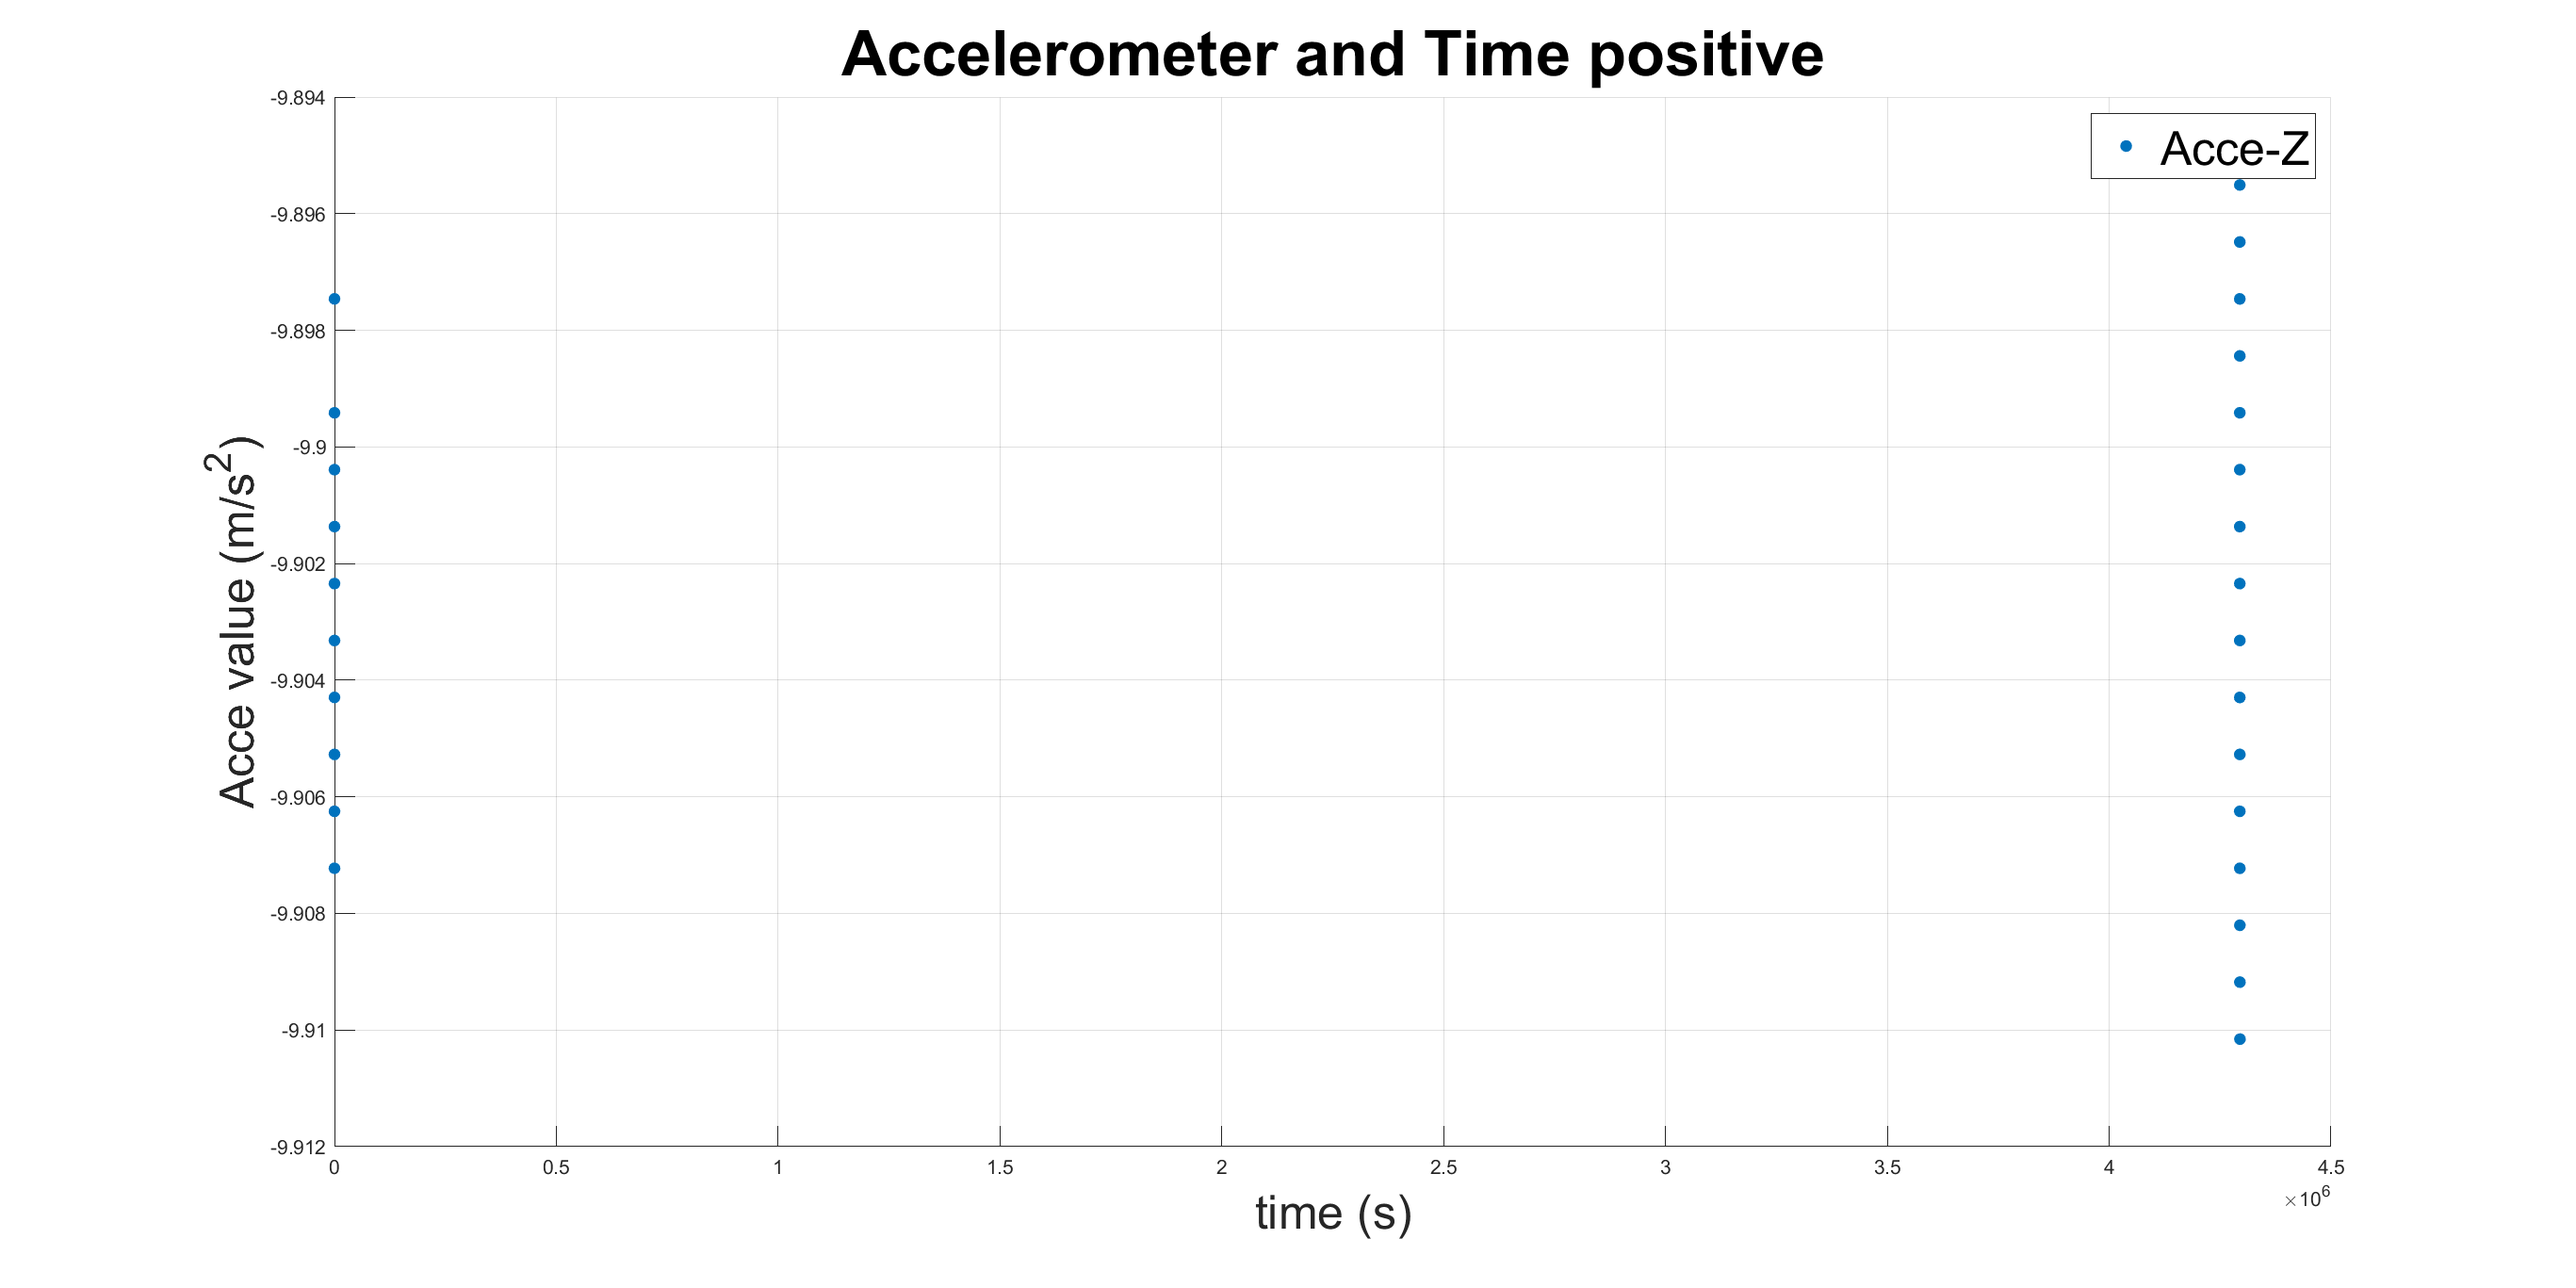
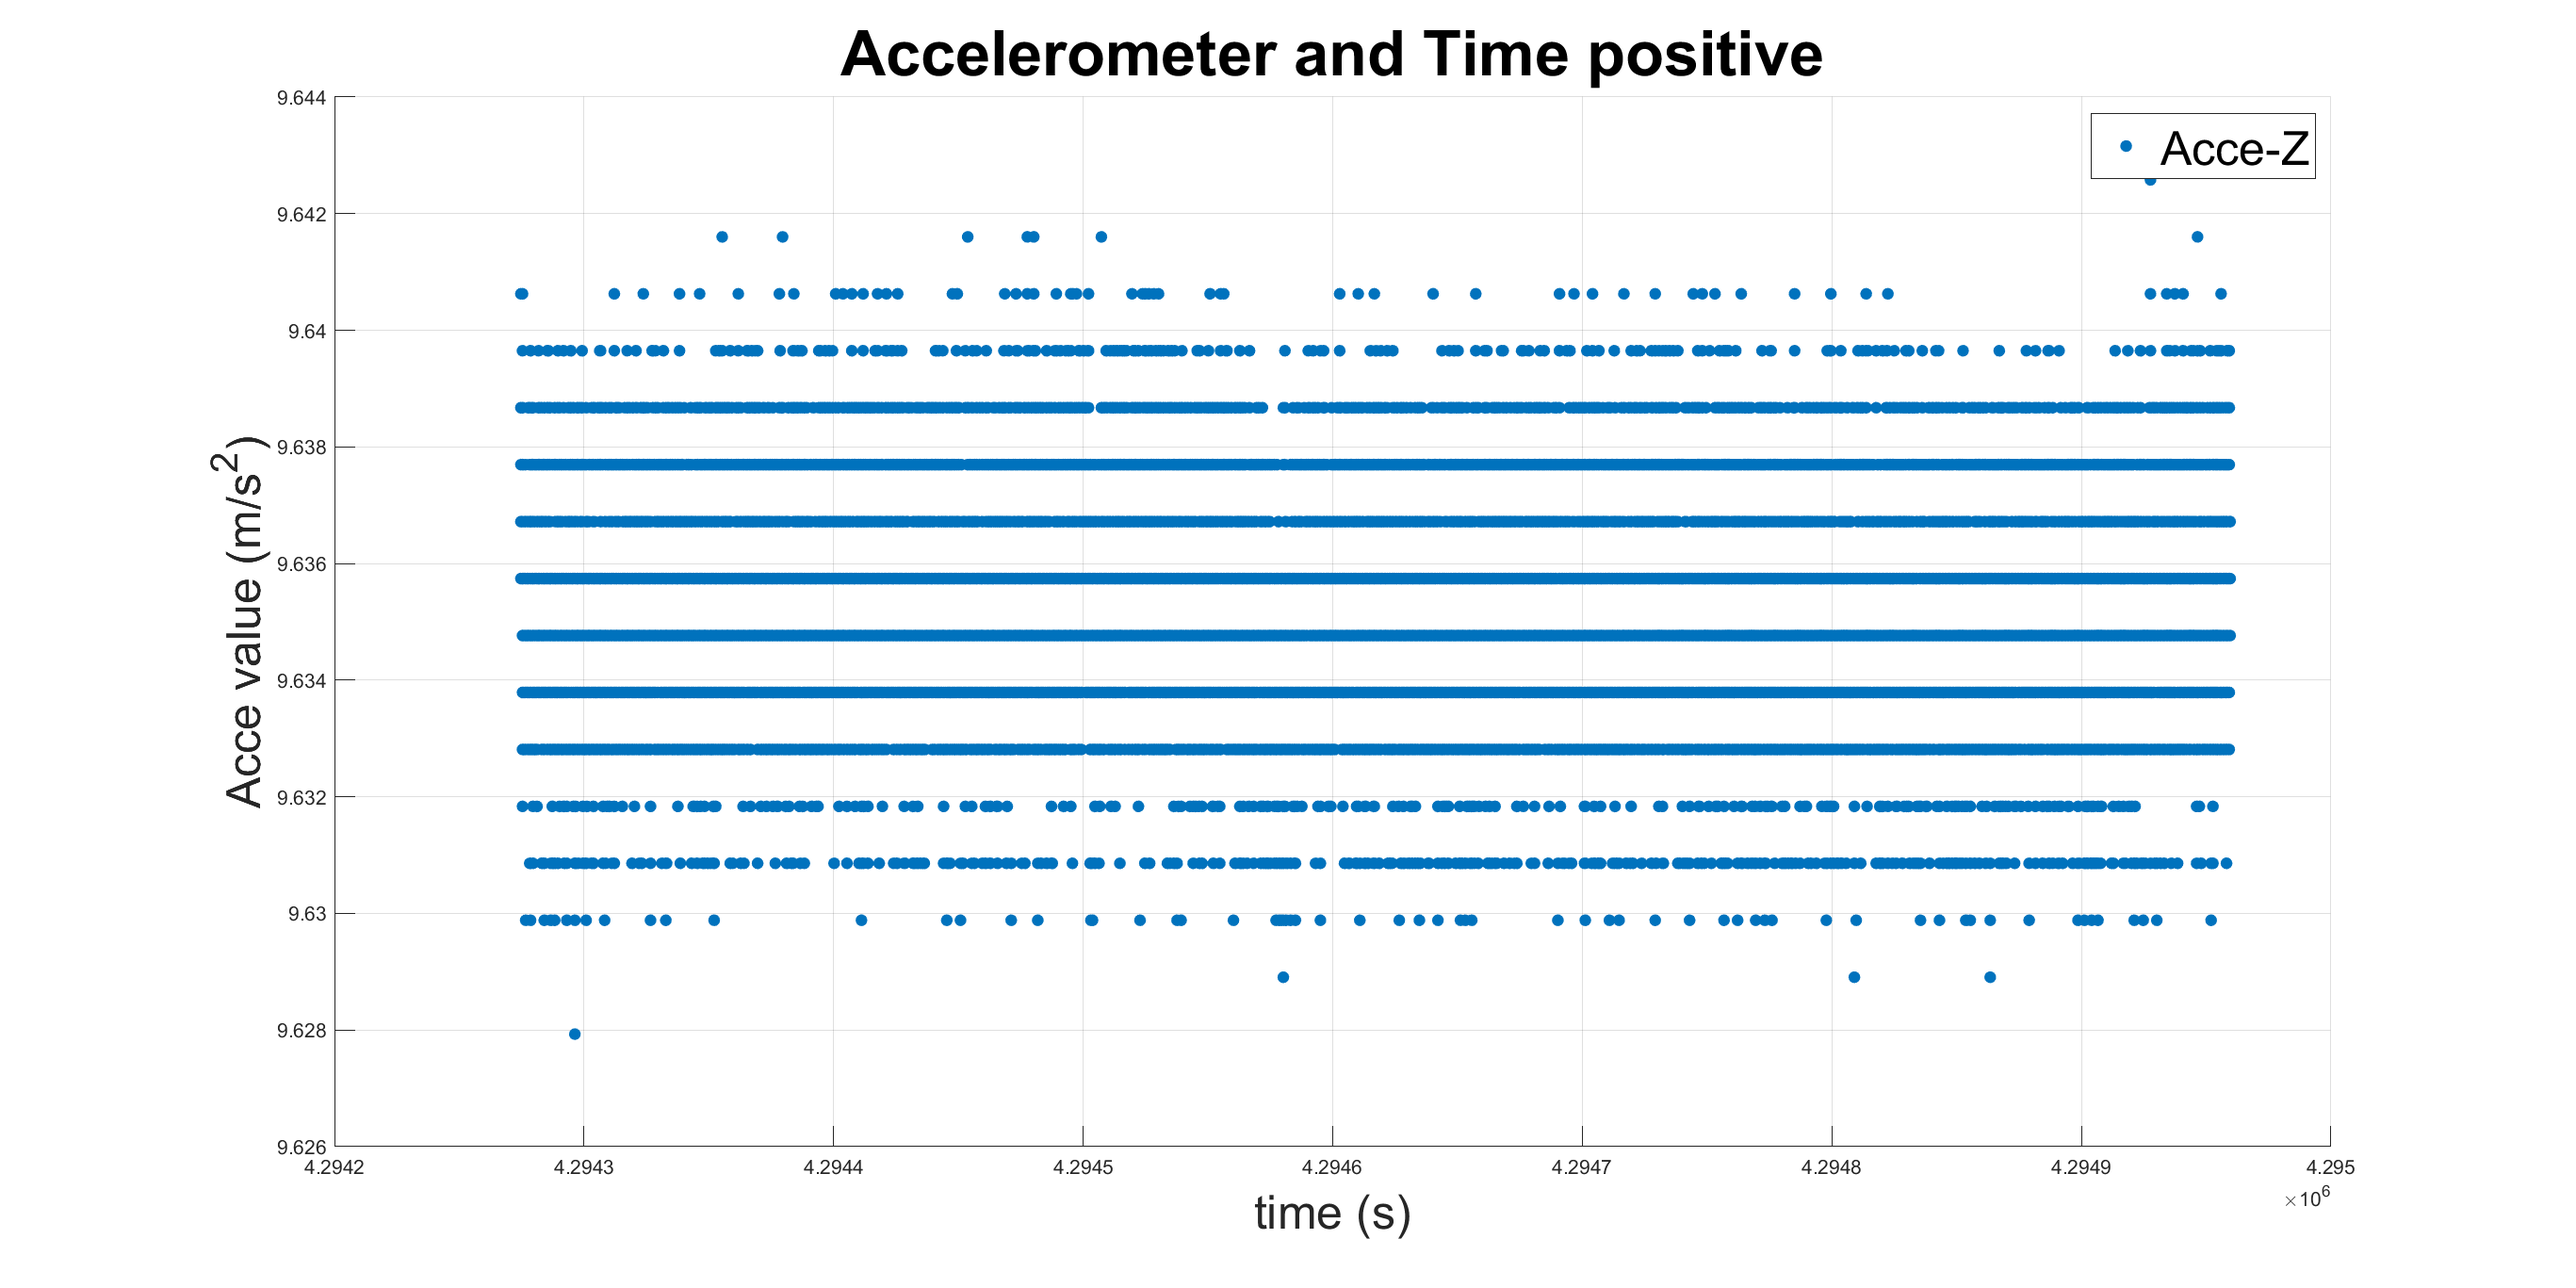
update

diff --git a/Inertial-Survey-and-Navigation-System/Assignment2-git/calibration.m b/Inertial-Survey-and-Navigation-System/Assignment2-git/calibration.m
@@ -4,11 +4,9 @@ clc;
 clear;
 close all;
 
-% Creat output folder
+% Creat output folder and file
 OutputFolder = sprintf('OutputFigure');
-if ~exist([pwd, '\', OutputFolder], 'dir')
-    mkdir(OutputFolder);
-end
+if ~exist(OutputFolder, 'dir'); mkdir(OutputFolder); end
 
 %% ========== Open Example ========== %%
 % openExample('shared_positioning/AllanVarianceExample');
@@ -16,73 +14,85 @@ end
 
 %% ========== Read File ========== %%
 % Select GNSS file
-PathGNSS = 'C:\Users\P66134111\Documents\code-class\Inertial-Survey-and-Navigation-System\Assignment2-git\data-sample\COM3_2024-05-09_14.20.08\';
+PathGNSS = 'C:\Users\P66134111\Documents\code-class\Inertial-Survey-and-Navigation-System\Assignment2-git\data-sample\COM3_2024-05-09_15.12.53-up\';
 FileGNSS = 'gnss_data_pointer.txt';
-[FileGNSS, PathGNSS, ~] = uigetfile('*.txt', 'Please select GNSS file (.txt)');
+% [FileGNSS, PathGNSS, ~] = uigetfile('*.txt', 'Please select GNSS file (.txt)');
 GNSS = readmatrix([PathGNSS, FileGNSS]);
 
-% Select Z1 file
-PathZ1 = 'C:\Users\P66134111\Documents\code-class\Inertial-Survey-and-Navigation-System\Assignment2-git\data-sample\';
-FileZ1 = 'imu_pointer_z1.txt';
-[FileZ1, PathZ1, ~] = uigetfile('*.txt', 'Please select Z1 file (.txt)');
-Z1 = readmatrix([PathZ1, FileZ1]);
+% Select upside file
+PathZUp = 'C:\Users\P66134111\Documents\code-class\Inertial-Survey-and-Navigation-System\Assignment2-git\data-sample\COM3_2024-05-09_15.12.53-up\';
+FileZUp = 'imu_pointer.txt';
+% [FileZUp, PathZUp, ~] = uigetfile('*.txt', 'Please select upside file (.txt)');
+ZUp = readmatrix([PathZUp, FileZUp]);
 
-% Select Z2 file
-PathZ2 = 'C:\Users\P66134111\Documents\code-class\Inertial-Survey-and-Navigation-System\Assignment2-git\data-sample\';
-FileZ2 = 'imu_pointer_z2.txt';
-[FileZ2, PathZ2, ~] = uigetfile('*.txt', 'Please select Z2 file (.txt)');
-Z2 = readmatrix([PathZ2, FileZ2]);
+% Select downside file
+PathZDown = 'C:\Users\P66134111\Documents\code-class\Inertial-Survey-and-Navigation-System\Assignment2-git\data-sample\COM3_2024-05-09_15.00.31-down\';
+FileZDown = 'imu_pointer.txt';
+% [FileZDown, PathZDown, ~] = uigetfile('*.txt', 'Please select downside file (.txt)');
+ZDown = readmatrix([PathZDown, FileZDown]);
 
 % Select Allan file
 PathAllan = 'C:\Users\P66134111\Documents\NCKU-Data\112-2\Inertial-Survey-and-Navigation-System\assignment\Assignment2-class\Sample\Assignment2\';
 FileAllan = 'imu_pointer_Allan.txt';
-[FileAllan, PathAllan, ~] = uigetfile('*.txt', 'Please select Allan file (.txt)');
+% [FileAllan, PathAllan, ~] = uigetfile('*.txt', 'Please select Allan file (.txt)');
 Allan = readmatrix([PathAllan, FileAllan]);
 
 %% ========== Make Obervation Plot ========== %%
-% Z1 scatter
-helperScatterPlotGyro(Z1(:, [1 2 3 4]), 'negative', [OutputFolder, '\','Z1-Gyro']);
-helperScatterPlotAcce(Z1(:, [1 5 6 7]), 'negative', [OutputFolder, '\','Z1-Acce']);
+% Upside scatter
+helperScatterPlotGyro(ZUp(:, [1 2 3 4]), 'negative', [OutputFolder, '\','Z1-Gyro']);
+helperScatterPlotAcce(ZUp(:, [1 5 6 7]), 'negative', [OutputFolder, '\','Z1-Acce']);
 
-% Z2 scatter
-helperScatterPlotGyro(Z2(:, [1 2 3 4]), 'positive', [OutputFolder, '\','Z2-Gyro']);
-helperScatterPlotAcce(Z2(:, [1 5 6 7]), 'positive', [OutputFolder, '\','Z2-Acce']);
+% Downside scatter
+helperScatterPlotGyro(ZDown(:, [1 2 3 4]), 'positive', [OutputFolder, '\','Z2-Gyro']);
+helperScatterPlotAcce(ZDown(:, [1 5 6 7]), 'positive', [OutputFolder, '\','Z2-Acce']);
 
-% Z1 scatter of Z-Axis
-helperScatterPlotGyro(Z1(:, [1 4]), 'negative', [OutputFolder, '\','Z1-Gyro-z']);
-helperScatterPlotAcce(Z1(:, [1 7]), 'negative', [OutputFolder, '\','Z1-Acce-z']);
+% Upside scatter of Z-Axis
+helperScatterPlotGyro(ZUp(:, [1 4]), 'negative', [OutputFolder, '\','Z1-Gyro-z']);
+helperScatterPlotAcce(ZUp(:, [1 7]), 'negative', [OutputFolder, '\','Z1-Acce-z']);
 
-% Z2 scatter of Z-Axis
-helperScatterPlotGyro(Z2(:, [1 4]), 'positive', [OutputFolder, '\','Z2-Gyro-z']);
-helperScatterPlotAcce(Z2(:, [1 7]), 'positive', [OutputFolder, '\','Z2-Acce-z']);
+% Downside scatter of Z-Axis
+helperScatterPlotGyro(ZDown(:, [1 4]), 'positive', [OutputFolder, '\','Z2-Gyro-z']);
+helperScatterPlotAcce(ZDown(:, [1 7]), 'positive', [OutputFolder, '\','Z2-Acce-z']);
 
 %% ========== Make Allan Plot ========== %%
-% % Accelerometer
-% helperAllanVarPlot(Allan(:, 2), 'Gyro-x', [OutputFolder, '\','AllanVar-Gyro-x']);
-% helperAllanVarPlot(Allan(:, 3), 'Gyro-y', [OutputFolder, '\','AllanVar-Gyro-y']);
-% helperAllanVarPlot(Allan(:, 4), 'Gyro-z', [OutputFolder, '\','AllanVar-Gyro-z']);
-% 
-% % Gyroscope
-% helperAllanVarPlot(Allan(:, 5), 'Acce-x', [OutputFolder, '\','AllanVar-Acce-x']);
-% helperAllanVarPlot(Allan(:, 6), 'Acce-y', [OutputFolder, '\','AllanVar-Acce-y']);
-% helperAllanVarPlot(Allan(:, 7), 'Acce-z', [OutputFolder, '\','AllanVar-Acce-z']);
+% Accelerometer
+helperAllanVarPlot(Allan(:, 2), 'Gyro-x', [OutputFolder, '\','AllanVar-Gyro-x']);
+helperAllanVarPlot(Allan(:, 3), 'Gyro-y', [OutputFolder, '\','AllanVar-Gyro-y']);
+helperAllanVarPlot(Allan(:, 4), 'Gyro-z', [OutputFolder, '\','AllanVar-Gyro-z']);
+
+% Gyroscope
+helperAllanVarPlot(Allan(:, 5), 'Acce-x', [OutputFolder, '\','AllanVar-Acce-x']);
+helperAllanVarPlot(Allan(:, 6), 'Acce-y', [OutputFolder, '\','AllanVar-Acce-y']);
+helperAllanVarPlot(Allan(:, 7), 'Acce-z', [OutputFolder, '\','AllanVar-Acce-z']);
 
 %% ========== Calibration ========== %%
 % Initial value
 lat = mean(GNSS(:, 2)); % deg
-AcceTrueZ = 9.8; % m/s^2
+AcceTrueZ = -9.8; % m/s^2
 GyroTrueZ = 15*sind(lat)/60/60; % deg/s
 
 % Accelerometer
-AcceNegZ = mean(Z1(:, 7));
-AccePosZ = mean(Z2(:, 7));
+AcceNegZ = mean(ZUp(:, 7));
+AccePosZ = mean(ZDown(:, 7));
 
 AcceBias = (AcceNegZ+AccePosZ)/2;
 AcceScale = (AccePosZ-AcceNegZ-2*AcceTrueZ)/(2*AcceTrueZ);
 
 % Gyroscope
-GyroNegZ = mean(Z1(:, 4));
-GyroPosZ = mean(Z2(:, 4));
+GyroNegZ = -mean(ZUp(:, 4));
+GyroPosZ = mean(ZDown(:, 4));
 
 GyroBias = (GyroNegZ-GyroPosZ)/2;
 GyroScale = (GyroPosZ+GyroNegZ-2*GyroTrueZ)/(2*GyroTrueZ);
+
+% Output parameter
+FilePara = fopen([OutputFolder, '\', 'Calibration-Parameter.txt'], 'w');
+fprintf(FilePara,'%%%% ========== Calibration Parameter ========== %%%%\n');
+fprintf(FilePara,'%% Accelerometer\n');
+fprintf(FilePara,'Acce Bias  = %+.6f (m/s^2)\n', AcceBias);
+fprintf(FilePara,'Acce Scale = %+.6f (m/s^2)\n\n', AcceScale);
+fprintf(FilePara,'%% Gyroscope\n');
+fprintf(FilePara,'Gyro Bias  = %+.6f (deg/s)\n', GyroBias);
+fprintf(FilePara,'Gyro Scale = %+.6f (deg/s)\n', GyroScale);
+fclose(FilePara);
+

diff --git a/Personal-Financing/calculator.m b/Personal-Financing/calculator.m
@@ -26,7 +26,7 @@ Coupon_Payment = Face_Value * (Coupon_Rate*0.01) * 1/2; % dolar / half of year
 
 PVAF = (1-(1/(1+Yield_to_Maturity/2*0.01)^(n*2))) / (Yield_to_Maturity/2*0.01);
 VB = Coupon_Payment*PVAF + Face_Value/(1+Yield_to_Maturity/2*0.01)^(n*2);
-disp([, sprintf('VB = %.4f\n', VB)]);
+disp([sprintf('VB = %.4f\n', VB)]);
 
 %% --------------- Holding Period Return --------------- %%
 Coupon_Rate = 8; % percent of year

diff --git a/Inertial-Survey-and-Navigation-System/Assignment2-git/helperScatterPlotGyro.m b/Inertial-Survey-and-Navigation-System/Assignment2-git/helperScatterPlotGyro.m
@@ -1,5 +1,5 @@
 function [] = helperScatterPlotGyro(IMUData, type, OutputDir)
-    scatter(IMUData(:, 1), IMUData(:, 2: end), 'filled', '-');
+    scatter(IMUData(:, 1), IMUData(:, 2: end), 'filled');
     title(['Gyroscope and Time ', type], 'FontSize', 32);
     xlabel("time (s)", 'FontSize', 24);
     ylabel("Gyro value (rad/s)", 'FontSize', 24);
